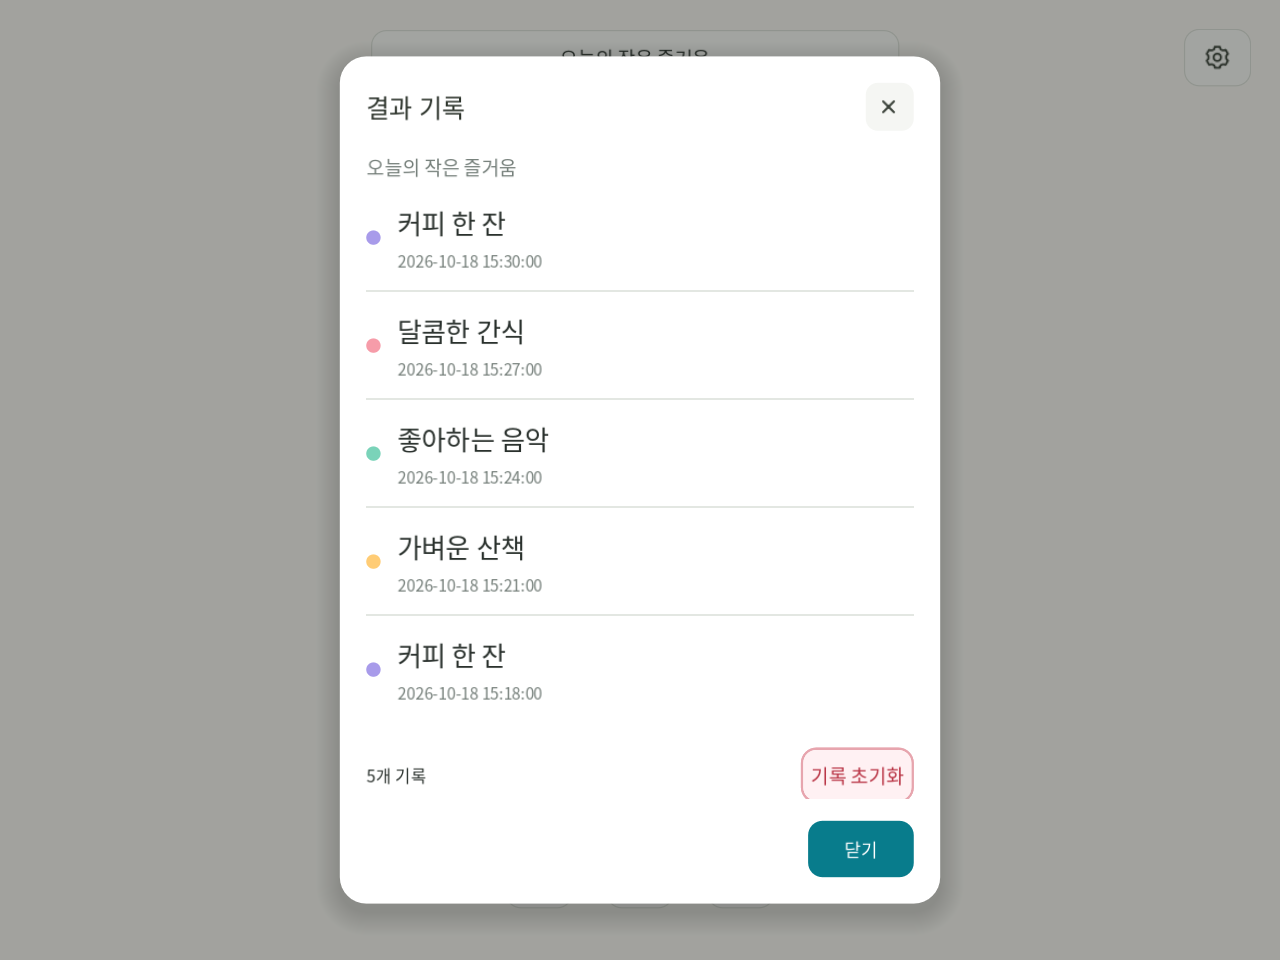
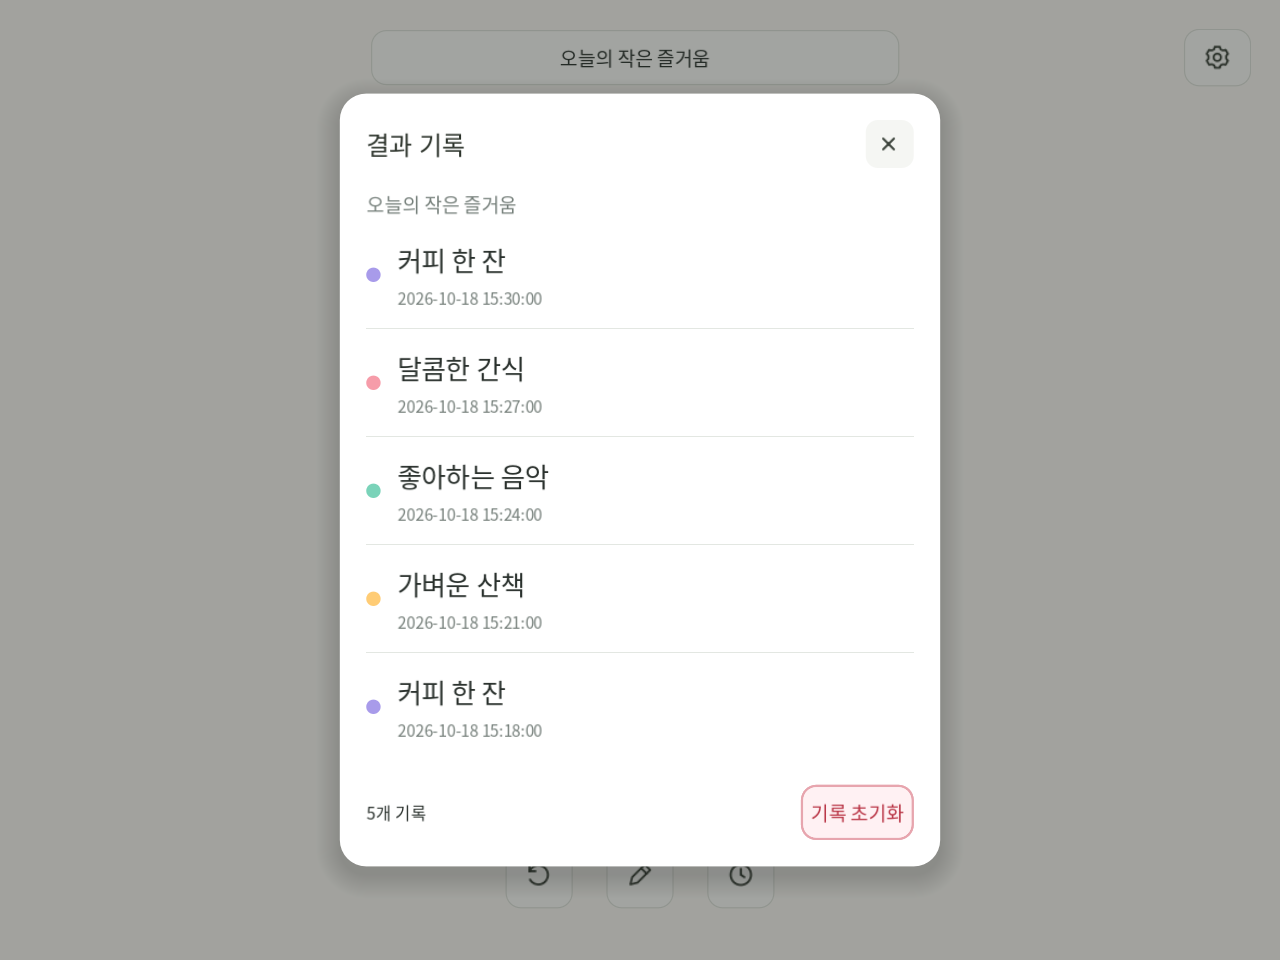
Release v0.2.2: fix selected hover contrast, simplify footers and unify wheel separators

Changed region(s): [[0.25, 0.0312, 0.75, 0.9688]]

diff --git a/docs/QA.md b/docs/QA.md
@@ -106,3 +106,11 @@ Final detail regression total: **10,252 checks passed** (10,165 model,22 UI,4 la
 - Removed ghost pinning to insertion markers. Independent actual editor/manager1px-pointer traces now show exactly1px ghost motion (previous maximum jumps57/64px), with no per-motion data mutation/rebuild. Grab offset remains fixed; marker draws behind the opaque ghost. Autoscroll does not move a stationary-pointer ghost.
 - Fifteen suites: **11,850 checks passed**, no engine/script errors. Final cosmetic changes passed83 additional checks in the four affected suites. Desktop/mobile global settings, editor top/bottom and history captures are Linux-rendered app views; history screenshots use isolated sample records, not user data.
 - Version0.2.1/Android versionCode7; package ID and local persistence paths unchanged. Windows user-PC launch and Android physical-device behavior are not claimed by cloud rendering.
+
+## Version 0.2.2 selected-hover regression
+
+- Reproduced using real pointer dispatch and framebuffer capture: selected CheckBox hover uses DRAW_HOVER_PRESSED, whose missing theme entries fell back to a white font and StyleBoxEmpty. Explicit hover_pressed styles/colors now cover ratio/percentage radios, inherited/custom duration, removal toggles and generic buttons. Selected soft-label contrast is strengthened without changing layout.
+- Seventeen suites pass **12,143 checks**:15 headless suites11,852 plus288 native-rendered button-state checks and3 wheel-pixel checks. The button matrix covers9 roles across6 states and both selected/unselected values; actual text pixels and foreground/background contrast are checked. CI runs these two render-dependent suites under Xvfb/Mesa, never headless.
+- Global settings/history bottom Close footers removed; topX, Escape/Android back and focus restoration remain. Final desktop/mobile captures checked.
+- Wheel separators now render after all slice fills. Native pixel regression fails the old interleaved draw order and passes uniform current seams at rest/rotation. Shadow drawing and offset remain unchanged.
+- Version0.2.2/Android code8; no persistence schema or user-data migration changes. Physical Windows handoff and Android device verification remain separate from cloud rendering.

diff --git a/README.md b/README.md
@@ -1,4 +1,4 @@
-# 돌려봐 · Spin Wheel 0.2.1
+# 돌려봐 · Spin Wheel 0.2.2
 
 Windows와 Android를 위한 오프라인 룰렛 게임. Godot 4.6.3 / GDScript / Compatibility 2D 렌더러로 만들었습니다. 서버, 로그인, 광고, 네트워크 권한이 없습니다.
 
@@ -77,3 +77,5 @@ Windows / Android export와 GitHub Actions는 [빌드 안내](docs/BUILD.md)를 
 프리셋별 작은 돌림판 미리보기에서 선택·룰렛 편집·삭제를 할 수 있습니다. 노란 별은 즐겨찾기이며 자동 정렬하지 않습니다. 프리셋과 항목 왼쪽 손잡이를 끌어 직접 순서를 바꿀 수 있고, 가장자리에서는 자동 스크롤합니다. 키보드는 손잡이에 초점을 두고 Alt+위/아래를 사용합니다. Escape/뒤로 가기는 진행 중인 드래그부터 취소합니다. 순서와 즐겨찾기는 재실행 후에도 유지됩니다. 룰렛 이름 수정은 같은 프리셋의 이름만 바꾸며 ID·기록·설정은 유지합니다.
 
 0.2.1에서는 드래그 중 미리보기가 손잡이를 잡은 위치를 연속적으로 따라가며, 삽입 표시선과 독립적으로 움직입니다. 삭제 버튼은 모든 상태에서 같은 여백과44px 영역을 유지합니다. 결과 기록은 당첨 이름과 시간을 구분하고, 저장된 색상이 있는 기록에만 색을 표시합니다.
+
+0.2.2는 선택한 라디오 버튼에 마우스를 올렸을 때 글자와 배경이 사라지던 상태 테마 누락을 수정합니다. 선택·호버·누름·초점·비활성 상태의 색을 명시하고 실제 렌더링 회귀 검사를 추가했습니다.
